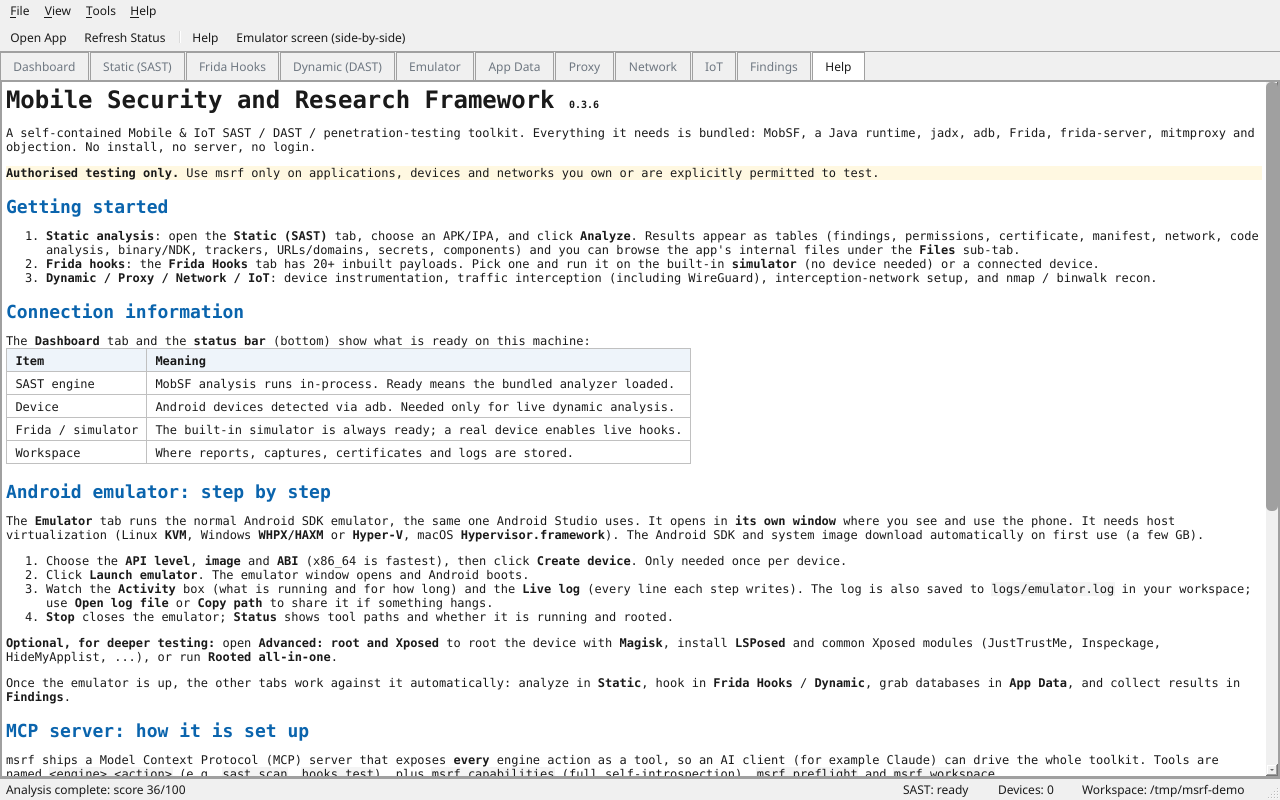
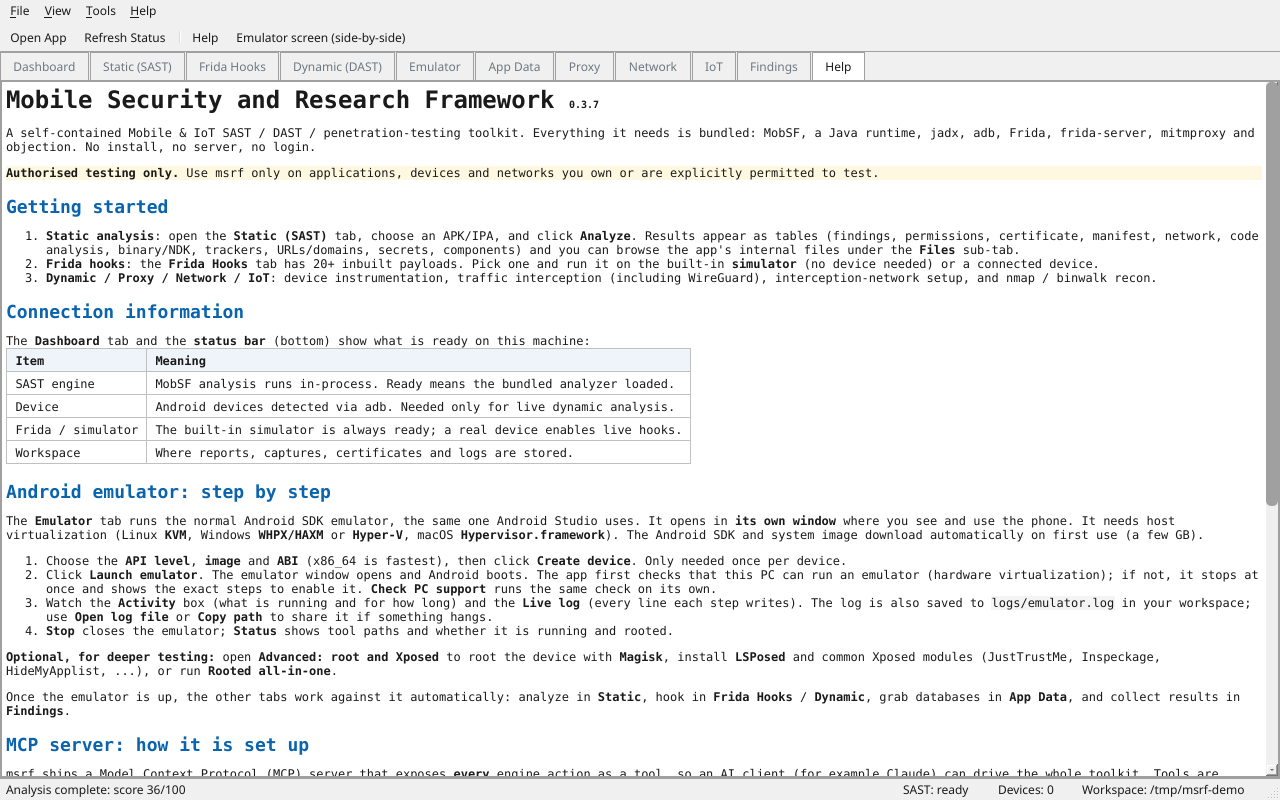
release: v0.3.7 - emulator checks PC virtualization and fails fast with clear steps
- Launch runs `emulator -accel-check` first; if virtualization is unavailable it stops immediately with plain step-by-step fix instructions for Windows, Linux or macOS.
- The boot wait watches the emulator process and reports its exit at once with the reason read from the log, instead of waiting up to 5 minutes.
- Pass -no-metrics when the emulator supports it so the metrics prompt can never block the launch.
- Boot checks use `adb -e` so a connected phone cannot interfere.
- New Check PC support button and accel_check action; Status shows hardware acceleration.
- Tests cover the real Windows failure log from a user's machine; 74 tests pass, ruff clean.

Changed region(s): [[0.0, 0.7188, 0.9688, 0.9688]]

diff --git a/src/msrf/engines/emulator.py b/src/msrf/engines/emulator.py
@@ -29,8 +29,8 @@ from pathlib import Path
 from typing import Any
 
 from ..config import Config
-from ..exceptions import EngineError
-from ..platform_utils import IS_WINDOWS, run, run_logged, spawn, which
+from ..exceptions import CommandError, EngineError
+from ..platform_utils import IS_WINDOWS, os_name, run, run_logged, spawn, which
 from ..registry import register
 from .base import Engine, action
 
@@ -160,8 +160,16 @@ class EmulatorEngine(Engine):
                 "running": running,
                 "rooted": rooted,
                 "system_image": self._image_pkg(),
+                "hardware_acceleration": self._accel_summary(),
             },
         }
+
+    def _accel_summary(self) -> str:
+        if not self._emulator():
+            return "unknown (emulator not installed yet)"
+        res = self.accel_check()
+        state = {True: "available", False: "NOT available", None: "unknown"}[res["usable"]]
+        return f"{state}: {res['detail']}"
 
     def _avd_exists(self) -> bool:
         emu = self._emulator()
@@ -271,18 +279,38 @@ class EmulatorEngine(Engine):
         if self.cfg.headless:
             # Opt-in: no on-screen window (e.g. CI / remote). Default is windowed.
             args += ["-no-window", "-no-audio"]
+        if self._supports_flag("-no-metrics"):
+            # Skip the usage-metrics banner (and the blocking prompt it announces).
+            args.append("-no-metrics")
+        # Fail fast, with a clear fix, when the PC cannot run an emulator at all.
+        accel = self.accel_check()
+        if accel["usable"] is False:
+            self._note("Cannot launch: hardware virtualization is not available. " + accel["detail"])
+            self._note(accel["how_to_fix"])
+            raise EngineError("emulator", accel["how_to_fix"])
         log = self.live_log_path
         self._note("=== Launching emulator: " + " ".join(str(a) for a in args) + " ===")
-        spawn(args, stdout=log)
-        # Wait for boot, reporting progress so a slow/stuck boot is visible.
-        self._note("Waiting for the device to appear (adb wait-for-device)")
-        run([adb, "wait-for-device"], check=False, timeout=self.cfg.boot_timeout)
+        proc = spawn(args, stdout=log)
+        # Wait for boot, reporting progress, and stop at once if the emulator dies.
+        self._note("Waiting for Android to boot (the emulator window should appear)")
         started = time.time()
         deadline = started + self.cfg.boot_timeout
         last_note = started
         while time.time() < deadline:
-            done = run([adb, "shell", "getprop", "sys.boot_completed"], check=False)
-            if done.stdout.strip() == "1":
+            code = proc.poll() if proc is not None else None
+            if code is not None:
+                reason = self._explain_exit(log)
+                self._note(f"Emulator closed right after starting (exit code {code}). {reason}")
+                raise EngineError("emulator", f"The emulator closed right after starting. {reason} "
+                                  f"Full log: {log}")
+            try:
+                # -e: talk to the emulator even if a phone is also plugged in.
+                done = run([adb, "-e", "shell", "getprop", "sys.boot_completed"],
+                           check=False, timeout=15)
+                booted = done.stdout.strip() == "1"
+            except CommandError:
+                booted = False
+            if booted:
                 self._note(f"Android booted in {int(time.time() - started)}s")
                 return {"started": True, "avd": self.cfg.avd_name, "log": str(log)}
             if time.time() - last_note >= 15:
@@ -292,6 +320,51 @@ class EmulatorEngine(Engine):
         self._note(f"Boot timed out after {int(self.cfg.boot_timeout)}s")
         raise EngineError("emulator", f"Emulator did not finish booting in {self.cfg.boot_timeout}s. "
                           f"See the log: {log}")
+
+    # -- hardware acceleration / launch diagnostics ---------------------
+
+    @action("Check whether this computer can run the emulator (hardware virtualization).")
+    def accel_check(self) -> dict[str, Any]:
+        emu = self._emulator()
+        if not emu:
+            raise EngineError("emulator", "The emulator is not installed yet; click Create device first.")
+        try:
+            out = run([emu, "-accel-check"], check=False, timeout=60)
+            usable, detail = _parse_accel_check(out.stdout + out.stderr)
+        except CommandError as exc:
+            usable, detail = None, f"accel-check did not answer: {exc}"
+        result: dict[str, Any] = {"usable": usable, "detail": detail}
+        if usable is False:
+            result["how_to_fix"] = _accel_help()
+        return result
+
+    def _supports_flag(self, flag: str) -> bool:
+        """True if this emulator build lists ``flag`` in its help (cached)."""
+        if not hasattr(self, "_emu_help"):
+            emu = self._emulator()
+            try:
+                out = run([emu, "-help"], check=False, timeout=30) if emu else None
+                self._emu_help = (out.stdout + out.stderr) if out else ""
+            except CommandError:
+                self._emu_help = ""
+        return flag in self._emu_help
+
+    def _explain_exit(self, log: Path) -> str:
+        """Turn the emulator's last log lines into a plain-language reason."""
+        try:
+            tail = "\n".join(log.read_text(encoding="utf-8", errors="replace").splitlines()[-80:])
+        except OSError:
+            tail = ""
+        low = tail.lower()
+        if "requires hardware acceleration" in low or "virtualization extension" in low:
+            return _accel_help()
+        if "running multiple emulators with the same avd" in low or "another emulator instance" in low:
+            return "This virtual device is already running. Click Stop, then Launch again."
+        if "not enough space" in low or "no space left" in low:
+            return "There is not enough free disk space for the emulator. Free some space and try again."
+        if "unknown option" in low:
+            return "This emulator version rejected a launch option; update it with Create device."
+        return "The reason is in the last lines of the live log above."
 
     @action("Stop the running emulator.", mutating=True)
     def stop(self) -> dict[str, Any]:
@@ -556,3 +629,44 @@ class EmulatorEngine(Engine):
         if not found:
             raise EngineError("emulator", "Installed command-line tools but sdkmanager still not found.")
         return found
+
+
+def _parse_accel_check(text: str) -> tuple[bool | None, str]:
+    """Parse ``emulator -accel-check`` output: ``accel:`` / code / message / ``accel``."""
+    lines = [ln.strip() for ln in text.splitlines()]
+    try:
+        i = lines.index("accel:")
+        code = int(lines[i + 1])
+    except (ValueError, IndexError):
+        return None, text.strip()[:300]
+    msg = []
+    for ln in lines[i + 2:]:
+        if ln == "accel":
+            break
+        if ln:
+            msg.append(ln)
+    return code == 0, " ".join(msg)
+
+
+def _accel_help() -> str:
+    """Plain-language steps to enable hardware virtualization on this OS."""
+    head = ("This computer cannot run the Android emulator yet because hardware "
+            "virtualization is not available to it. ")
+    plat = os_name()
+    if plat == "windows":
+        steps = ("To fix it: 1) If this Windows is itself a virtual machine (VMware, VirtualBox, "
+                 "Hyper-V, Parallels or a cloud VM), turn on nested virtualization for it in the "
+                 "host's VM settings. 2) Otherwise, enable Intel VT-x or AMD-V (SVM) in the BIOS/UEFI "
+                 "setup. 3) In Windows, open 'Turn Windows features on or off', tick 'Windows "
+                 "Hypervisor Platform', and restart. Task Manager > Performance > CPU should then "
+                 "show 'Virtualization: Enabled'. Then click Launch emulator again.")
+    elif plat == "linux":
+        steps = ("To fix it: enable Intel VT-x or AMD-V in the BIOS/UEFI (or nested virtualization "
+                 "if this Linux is a VM), install KVM (for example 'sudo apt install qemu-kvm'), "
+                 "add your user to the 'kvm' group, log out and back in, and check that /dev/kvm "
+                 "exists. Then click Launch emulator again.")
+    else:
+        steps = ("To fix it: on an Apple Silicon Mac choose the arm64-v8a ABI and create the device "
+                 "again; on an Intel Mac make sure it is not a virtual machine without nested "
+                 "virtualization. Then click Launch emulator again.")
+    return head + steps

diff --git a/tests/test_emulator.py b/tests/test_emulator.py
@@ -150,3 +150,102 @@ def test_provision_stops_before_restart(monkeypatch, engine):
     # Never two emulators: a stop sits between the two starts.
     assert calls == ["setup", "start(ws=True)", "root", "stop", "start(ws=True)",
                      "lsposed", "modules", "checker"]
+
+
+# -- hardware acceleration / fail-fast launch ------------------------------
+
+_ACCEL_OK = "accel:\n0\nWHPX(10.0.19045) is installed and usable.\naccel\n"
+_ACCEL_BAD = ("accel:\n1\nAndroid Emulator requires an Intel/AMD processor with virtualization "
+              "extension support.  (Virtualization extension is not supported)\naccel\n")
+# Tail of a real Windows log where the PC had no virtualization.
+_REAL_WINDOWS_FAILURE = (
+    "INFO         |   Checking: hasCompatibleHypervisor\n"
+    "INFO         |      Ok: Hypervisor compatibility to run avd: `msrf` are met\n"
+    "WARNING      | encryption is off\n"
+    "ERROR        | x86 emulation currently requires hardware acceleration!\n"
+    "CPU acceleration status: Android Emulator requires an Intel/AMD processor with "
+    "virtualization extension support.  (Virtualization extension is not supported)\n"
+)
+
+
+class _Proc:
+    def __init__(self, code=None):
+        self.code = code
+
+    def poll(self):
+        return self.code
+
+
+def _stub_launch(monkeypatch, engine, accel=_ACCEL_OK, help_text="-no-metrics", proc=None,
+                 on_spawn=None):
+    launched: list[list[str]] = []
+    monkeypatch.setattr(engine, "_emulator", lambda: "emulator")
+    monkeypatch.setattr(engine, "_adb", lambda: "adb")
+    monkeypatch.setattr(engine, "_avd_exists", lambda: True)
+
+    def fake_spawn(args, stdout=None):
+        launched.append(args)
+        if on_spawn:
+            on_spawn(stdout)
+        return proc or _Proc()
+
+    def fake_run(cmd, **kw):
+        if "-accel-check" in cmd:
+            out = accel
+        elif "-help" in cmd:
+            out = help_text
+        elif "getprop" in cmd:
+            out = "1\n"
+        else:
+            out = ""
+        return SimpleNamespace(stdout=out, stderr="")
+
+    monkeypatch.setattr(emu_mod, "spawn", fake_spawn)
+    monkeypatch.setattr(emu_mod, "run", fake_run)
+    return launched
+
+
+def test_parse_accel_check():
+    ok, detail = emu_mod._parse_accel_check(_ACCEL_OK)
+    assert ok is True and detail == "WHPX(10.0.19045) is installed and usable."
+    ok, detail = emu_mod._parse_accel_check(_ACCEL_BAD)
+    assert ok is False and "not supported" in detail
+    assert emu_mod._parse_accel_check("garbage")[0] is None
+
+
+def test_launch_passes_no_metrics_when_supported(monkeypatch, engine):
+    launched = _stub_launch(monkeypatch, engine)
+    engine.start()
+    assert "-no-metrics" in launched[0]
+
+
+def test_launch_skips_no_metrics_on_old_emulator(monkeypatch, engine):
+    launched = _stub_launch(monkeypatch, engine, help_text="-avd <name>")
+    engine.start()
+    assert "-no-metrics" not in launched[0]
+
+
+def test_launch_refuses_without_virtualization(monkeypatch, engine):
+    launched = _stub_launch(monkeypatch, engine, accel=_ACCEL_BAD)
+    with pytest.raises(EngineError) as err:
+        engine.start()
+    assert launched == []                          # never started the emulator
+    assert "virtualization" in str(err.value).lower()
+    assert "fix it" in engine.log_tail()["tail"]
+
+
+def test_launch_fails_fast_when_emulator_exits(monkeypatch, engine):
+    import time
+
+    def write_failure(log):
+        log.write_text(_REAL_WINDOWS_FAILURE, encoding="utf-8")
+
+    # accel-check "unknown" (older emulator): launch proceeds, then the process dies.
+    _stub_launch(monkeypatch, engine, accel="", proc=_Proc(code=1), on_spawn=write_failure)
+    t0 = time.monotonic()
+    with pytest.raises(EngineError) as err:
+        engine.start()
+    assert time.monotonic() - t0 < 5               # no 5-minute wait
+    msg = str(err.value)
+    assert "closed right after starting" in msg
+    assert "virtualization" in msg.lower()

diff --git a/src/msrf/gui/emulator_view.py b/src/msrf/gui/emulator_view.py
@@ -41,6 +41,7 @@ _STEP_TITLES = {
     "start": "Launching emulator and waiting for Android to boot",
     "stop": "Stopping emulator",
     "status": "Checking status",
+    "accel_check": "Checking whether this PC can run the emulator",
     "list_images": "Listing available system images",
     "root": "Rooting with Magisk",
     "install_lsposed": "Installing LSPosed",
@@ -131,9 +132,13 @@ class EmulatorView(QWidget):
         stop.clicked.connect(lambda: self._run("stop"))
         status = QPushButton("Status")
         status.clicked.connect(lambda: self._run("status"))
+        check = QPushButton("Check PC support")
+        check.setToolTip("Check that hardware virtualization is available for the emulator")
+        check.clicked.connect(lambda: self._run("accel_check"))
         rlay.addWidget(launch)
         rlay.addWidget(stop)
         rlay.addWidget(status)
+        rlay.addWidget(check)
         rlay.addStretch(1)
         self._busy_buttons.append(launch)
         lay.addWidget(run_box)

diff --git a/src/msrf/gui/help_view.py b/src/msrf/gui/help_view.py
@@ -71,7 +71,10 @@ download automatically on first use (a few GB).</p>
 <ol>
   <li>Choose the <b>API level</b>, <b>image</b> and <b>ABI</b> (x86_64 is fastest), then
       click <b>Create device</b>. Only needed once per device.</li>
-  <li>Click <b>Launch emulator</b>. The emulator window opens and Android boots.</li>
+  <li>Click <b>Launch emulator</b>. The emulator window opens and Android boots. The app first
+      checks that this PC can run an emulator (hardware virtualization); if not, it stops at once
+      and shows the exact steps to enable it. <b>Check PC support</b> runs the same check on its
+      own.</li>
   <li>Watch the <b>Activity</b> box (what is running and for how long) and the
       <b>Live log</b> (every line each step writes). The log is also saved to
       <code>logs/emulator.log</code> in your workspace; use <b>Open log file</b> or

diff --git a/src/msrf/__init__.py b/src/msrf/__init__.py
@@ -17,7 +17,7 @@ from __future__ import annotations
 
 __all__ = ["__version__", "get_version"]
 
-__version__ = "0.3.6"
+__version__ = "0.3.7"
 
 
 def get_version() -> str:

diff --git a/CHANGELOG.md b/CHANGELOG.md
@@ -4,6 +4,17 @@ All notable changes to **msrf** are documented here. The format follows [Keep a 
 
 ## [Unreleased]
 
+## [0.3.7] - 2026-09-22
+
+### Fixed
+- Emulator launch now checks first whether the PC can run an emulator (hardware virtualization, via `emulator -accel-check`). If it cannot, it stops straight away with step-by-step instructions for Windows, Linux or macOS instead of trying to launch.
+- If the emulator closes right after starting, the app reports it at once with the reason from the log, instead of waiting up to 5 minutes.
+- The emulator is started with `-no-metrics` when supported, so its usage-metrics banner (announced to become a blocking prompt) can never stall the launch.
+- Boot checks talk to the emulator with `adb -e`, so a phone plugged in at the same time cannot confuse them.
+
+### Added
+- **Check PC support** button on the Emulator tab (and `emulator accel-check` on the CLI/MCP); Status now shows whether hardware acceleration is available.
+
 ## [0.3.6] - 2026-09-22
 
 ### Changed
